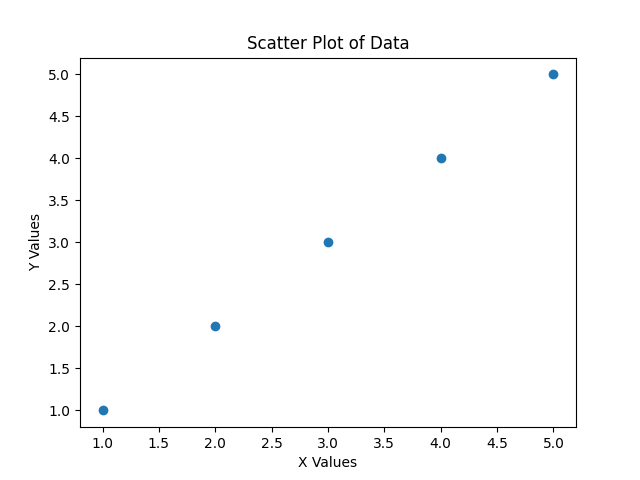
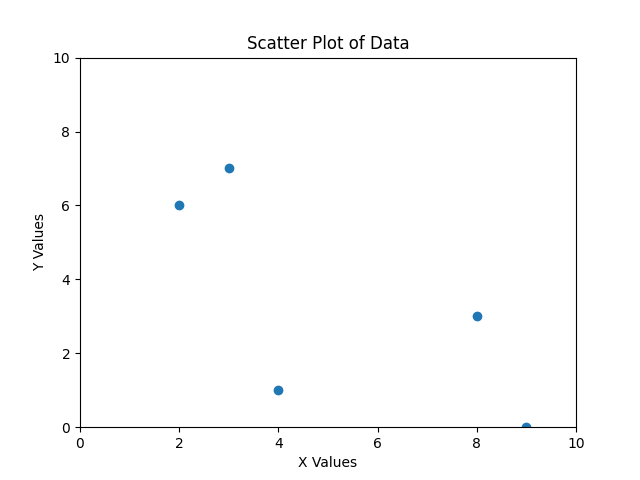
starting vectorize

diff --git a/visualizer.py b/visualizer.py
@@ -6,6 +6,8 @@ def plot_xy_data(data, figure_path):
     plt.xlabel('X Values')
     plt.ylabel('Y Values')
     plt.title('Scatter Plot of Data')
+    plt.xlim(0, 10)
+    plt.ylim(0, 10)
     plt.savefig(figure_path)
     plt.close()
 
@@ -19,6 +21,8 @@ def plot_lines(x_values, linear_definitions, figure_path):
     plt.ylabel("y")
     plt.title("Plot of lines")
     plt.legend()
+    plt.xlim(0, 10)
+    plt.ylim(0, 10)
     plt.savefig(figure_path)
     plt.close()
 

diff --git a/create_training_set.py b/create_training_set.py
@@ -15,8 +15,8 @@ def pd_to_csv(data, output_path):
 def main():
     logging.info("main()")
     data = {
-        "x": [1, 2, 3, 4, 5],
-        "y": [1, 2, 3, 4, 5]
+        "x": [4, 8, 3, 2, 9],
+        "y": [1, 3, 7, 6, 0]
     }
 
     output_path = os.path.join("training_sets", "data_set_01.csv")
